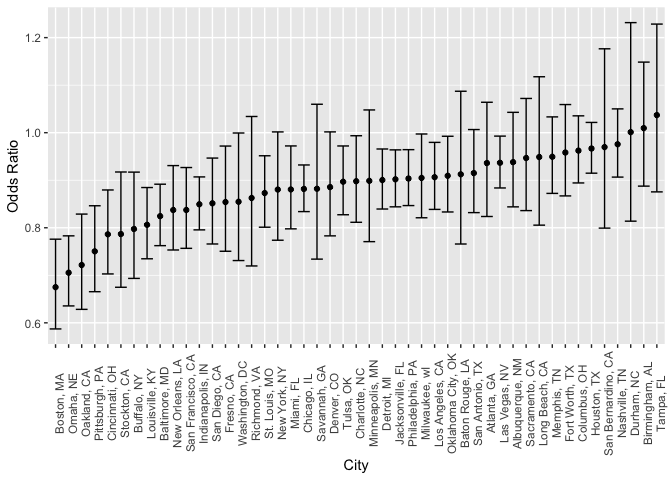
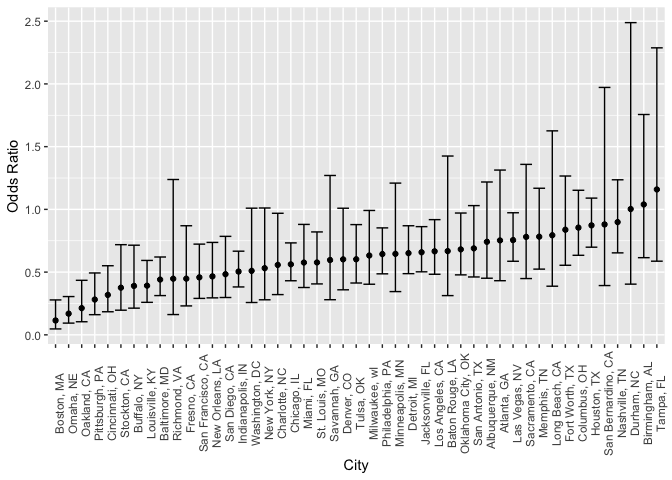
correct the model in problem 1, add family = binomial()

diff --git a/p8105_hw6_zf2213.md b/p8105_hw6_zf2213.md
@@ -51,7 +51,7 @@ homicide <- read_csv("https://raw.githubusercontent.com/washingtonpost/data-homi
 # get baltimore, MD
 glm_test <- homicide %>% filter(city_state == "Baltimore, MD")
 # fit logistic model
-glm_result <- glm(resolved ~ victim_age + victim_sex + victim_race, data = glm_test)
+glm_result <- glm(resolved ~ victim_age + victim_sex + victim_race, data = glm_test, family = binomial())
 # tidy the regression output
 result_test <- broom::tidy(glm_result)
 # 
@@ -62,13 +62,15 @@ result_test <- result_test %>%
 
 result_test %>%
     filter(term == "victim_racenon-white") %>% 
-    select(estimate, conf_upper, conf_lower) %>% 
+    mutate(estimate = exp(estimate),
+                 conf_upper = exp(estimate), conf_lower = exp(estimate)) %>% 
+    select(term, estimate, conf_upper, conf_lower) %>% 
     knitr::kable()
 ```
 
-|    estimate | conf\_upper | conf\_lower |
-| ----------: | ----------: | ----------: |
-| \-0.1930149 | \-0.1146935 | \-0.2713363 |
+| term                  | estimate | conf\_upper | conf\_lower |
+| :-------------------- | -------: | ----------: | ----------: |
+| victim\_racenon-white | 0.440608 |    1.553651 |    1.553651 |
 
 **Logistic regression on all cities:**
 
@@ -78,7 +80,7 @@ glm_all_cities <- homicide %>%
     group_by(city_state) %>% 
     nest(resolved, victim_age, victim_sex, victim_race) %>%
     # get logistic regression model
-    mutate(glm_model = map(.x = data, .f = ~ broom::tidy(glm(resolved ~ victim_age + victim_sex + victim_race, data = .x)))) %>%
+    mutate(glm_model = map(.x = data, .f = ~ glm(resolved ~ victim_age + victim_sex + victim_race, data = .x, family = binomial()) %>% broom::tidy())) %>%
     select(city_state, glm_model) %>%
     unnest() %>%
     janitor::clean_names() %>%
